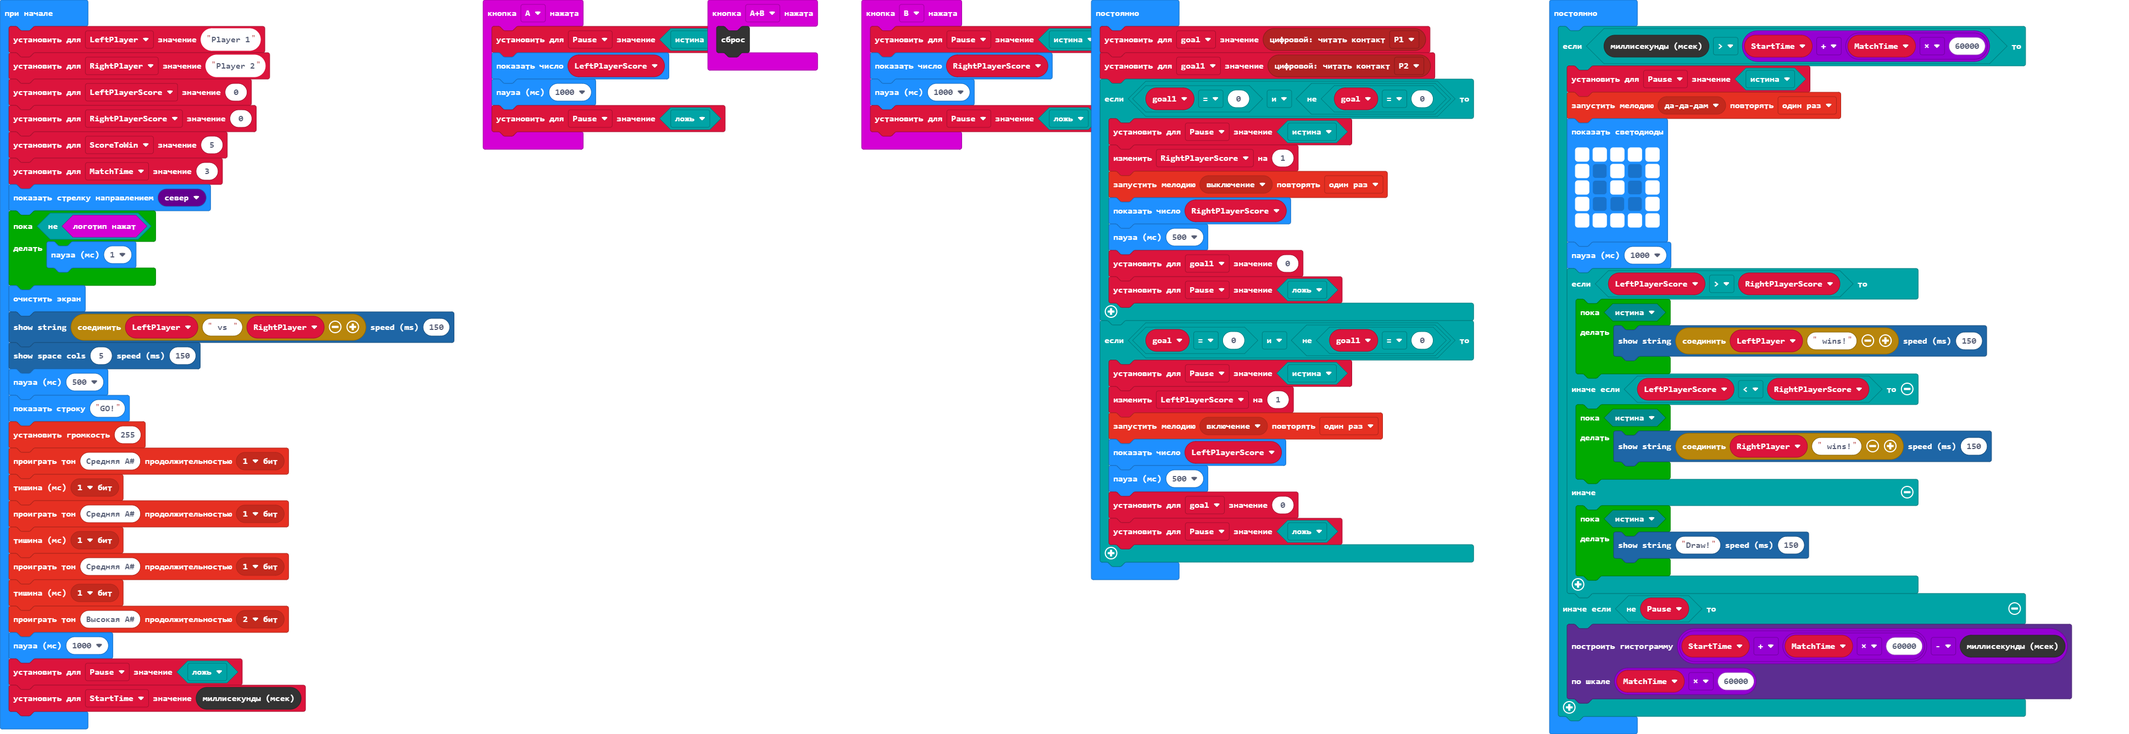
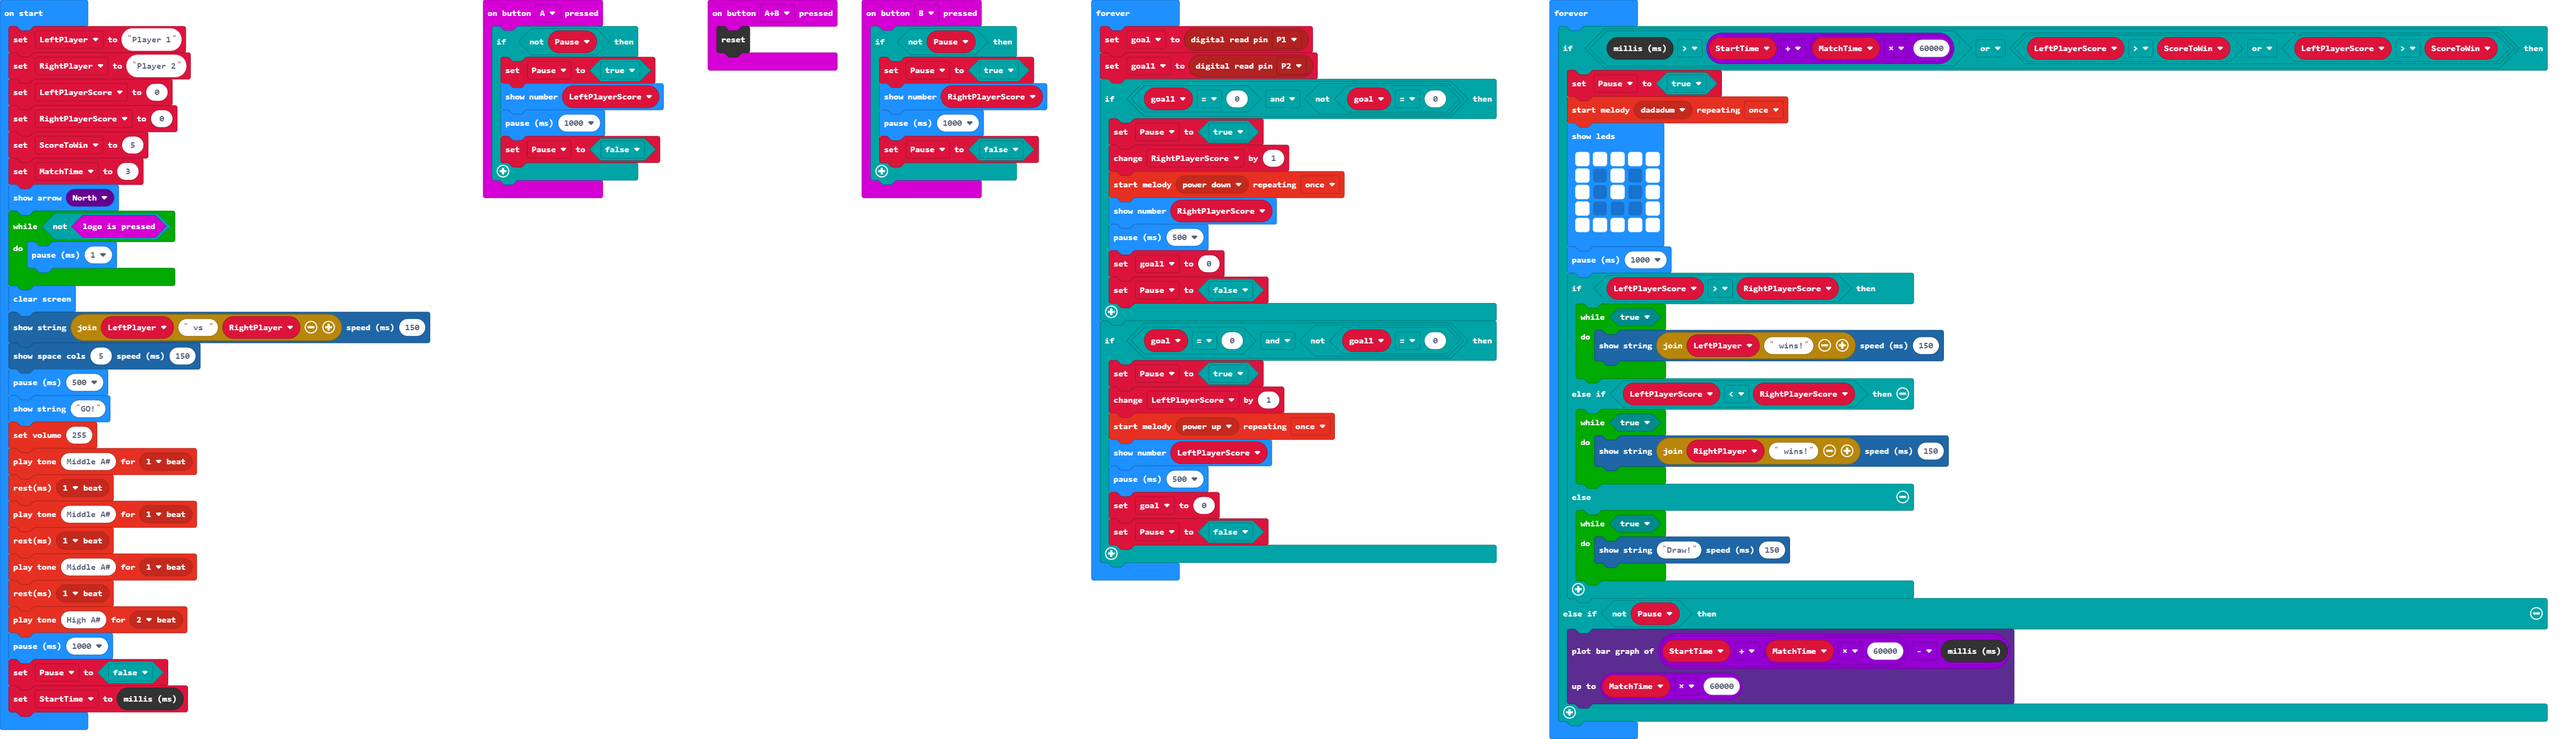
Update pxt.json, main.blocks, main.ts

diff --git a/main.ts b/main.ts
@@ -1,17 +1,21 @@
 input.onButtonPressed(Button.A, function () {
-    Pause = true
-    basic.showNumber(LeftPlayerScore)
-    basic.pause(1000)
-    Pause = false
+    if (!(Pause)) {
+        Pause = true
+        basic.showNumber(LeftPlayerScore)
+        basic.pause(1000)
+        Pause = false
+    }
 })
 input.onButtonPressed(Button.AB, function () {
     control.reset()
 })
 input.onButtonPressed(Button.B, function () {
-    Pause = true
-    basic.showNumber(RightPlayerScore)
-    basic.pause(1000)
-    Pause = false
+    if (!(Pause)) {
+        Pause = true
+        basic.showNumber(RightPlayerScore)
+        basic.pause(1000)
+        Pause = false
+    }
 })
 let goal1 = 0
 let goal = 0
@@ -67,7 +71,7 @@ basic.forever(function () {
     }
 })
 basic.forever(function () {
-    if (control.millis() > StartTime + MatchTime * 60000) {
+    if (control.millis() > StartTime + MatchTime * 60000 || (LeftPlayerScore > ScoreToWin || LeftPlayerScore > ScoreToWin)) {
         Pause = true
         music.startMelody(music.builtInMelody(Melodies.Dadadadum), MelodyOptions.Once)
         basic.showLeds(`
